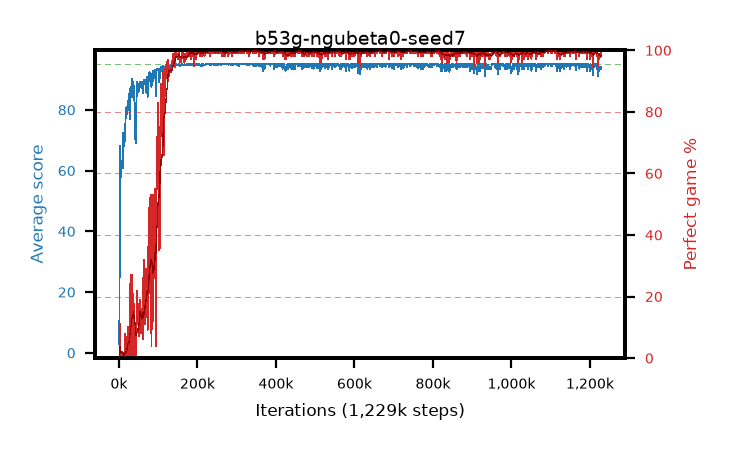
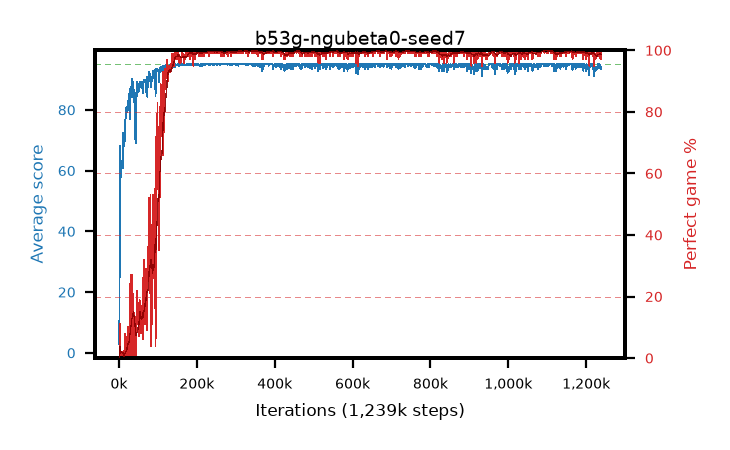
live pictures of 4 arm(s)

diff --git a/results/b53e-ngubeta0-seed5/b53e-ngubeta0-seed5.md b/results/b53e-ngubeta0-seed5/b53e-ngubeta0-seed5.md
@@ -1,6 +1,6 @@
 # b53e-ngubeta0-seed5
 
-step **1,219,000** · 1219 evals · trailing **94.21** · peak **94.95** @437,000 · sef **91.7** · best30 **99.8** @530,000
+step **1,229,000** · 1229 evals · trailing **94.23** · peak **94.95** @437,000 · sef **91.8** · best30 **99.8** @530,000
 
 ## Config
 
@@ -80,15 +80,15 @@ step **1,219,000** · 1219 evals · trailing **94.21** · peak **94.95** @437,00
 | 2000 | 29.39 | 17.35 | 3.0 | 54.0 | 24.459 | 0.0 | 0.4 |
 | 3000 | 50.81 | 28.5 | 16.0 | 85.0 | 45.457 | 0.0 | 0.4 |
 | ... | ... | ... | ... | ... | ... | ... | ... |
-| 1208000 | 95.0 | 94.44 | 95.0 | 95.0 | 193.781 | 100.0 | 0.4 |
-| 1209000 | 93.68 | 94.39 | 25.0 | 95.0 | 190.394 | 98.0 | 0.4 |
-| 1210000 | 94.17 | 94.37 | 12.0 | 95.0 | 191.91 | 99.0 | 0.4 |
-| 1211000 | 94.95 | 94.36 | 90.0 | 95.0 | 192.737 | 99.0 | 0.4 |
-| 1212000 | 94.27 | 94.4 | 22.0 | 95.0 | 192.023 | 99.0 | 0.4 |
-| 1213000 | 93.02 | 94.34 | 23.0 | 95.0 | 188.691 | 97.0 | 0.4 |
-| 1214000 | 93.54 | 94.31 | 22.0 | 95.0 | 190.251 | 98.0 | 0.4 |
-| 1215000 | 93.61 | 94.29 | 20.0 | 95.0 | 190.318 | 98.0 | 0.4 |
-| 1216000 | 95.0 | 94.29 | 95.0 | 95.0 | 193.789 | 100.0 | 0.4 |
-| 1217000 | 95.0 | 94.29 | 95.0 | 95.0 | 193.79 | 100.0 | 0.4 |
 | 1218000 | 94.25 | 94.27 | 20.0 | 95.0 | 191.99 | 99.0 | 0.4 |
 | 1219000 | 93.46 | 94.21 | 17.0 | 95.0 | 190.169 | 98.0 | 0.4 |
+| 1220000 | 94.31 | 94.24 | 26.0 | 95.0 | 192.059 | 99.0 | 0.4 |
+| 1221000 | 95.0 | 94.29 | 95.0 | 95.0 | 193.783 | 100.0 | 0.4 |
+| 1222000 | 93.48 | 94.24 | 18.0 | 95.0 | 190.187 | 98.0 | 0.4 |
+| 1223000 | 94.27 | 94.22 | 22.0 | 95.0 | 192.016 | 99.0 | 0.4 |
+| 1224000 | 94.89 | 94.25 | 84.0 | 95.0 | 192.629 | 99.0 | 0.4 |
+| 1225000 | 94.21 | 94.25 | 16.0 | 95.0 | 191.956 | 99.0 | 0.4 |
+| 1226000 | 94.49 | 94.28 | 44.0 | 95.0 | 192.24 | 99.0 | 0.4 |
+| 1227000 | 94.95 | 94.28 | 90.0 | 95.0 | 192.687 | 99.0 | 0.4 |
+| 1228000 | 95.0 | 94.28 | 95.0 | 95.0 | 193.789 | 100.0 | 0.4 |
+| 1229000 | 93.59 | 94.23 | 22.0 | 95.0 | 190.291 | 98.0 | 0.4 |

diff --git a/results/b53g-ngubeta0-seed7/b53g-ngubeta0-seed7.md b/results/b53g-ngubeta0-seed7/b53g-ngubeta0-seed7.md
@@ -1,6 +1,6 @@
 # b53g-ngubeta0-seed7
 
-step **1,229,000** · 1229 evals · trailing **94.08** · peak **94.97** @274,000 · sef **91.0** · best30 **99.8** @1,111,000
+step **1,239,000** · 1239 evals · trailing **94.17** · peak **94.97** @274,000 · sef **91.0** · best30 **99.8** @1,111,000
 
 ## Config
 
@@ -80,15 +80,15 @@ step **1,229,000** · 1229 evals · trailing **94.08** · peak **94.97** @274,00
 | 2000 | 37.8 | 20.34 | 6.0 | 63.0 | 32.628 | 0.0 | 0.4 |
 | 3000 | 67.99 | 36.22 | 23.0 | 95.0 | 74.006 | 11.0 | 0.4 |
 | ... | ... | ... | ... | ... | ... | ... | ... |
-| 1218000 | 93.42 | 94.37 | 13.0 | 95.0 | 190.127 | 98.0 | 0.4 |
-| 1219000 | 95.0 | 94.37 | 95.0 | 95.0 | 193.795 | 100.0 | 0.4 |
-| 1220000 | 91.15 | 94.26 | 11.0 | 95.0 | 184.755 | 95.0 | 0.4 |
-| 1221000 | 94.28 | 94.24 | 23.0 | 95.0 | 192.037 | 99.0 | 0.4 |
-| 1222000 | 93.47 | 94.19 | 15.0 | 95.0 | 190.185 | 98.0 | 0.4 |
-| 1223000 | 94.24 | 94.23 | 19.0 | 95.0 | 191.993 | 99.0 | 0.4 |
-| 1224000 | 92.69 | 94.15 | 14.0 | 95.0 | 188.368 | 97.0 | 0.4 |
-| 1225000 | 94.18 | 94.13 | 20.0 | 95.0 | 190.94 | 98.0 | 0.4 |
-| 1226000 | 94.29 | 94.1 | 24.0 | 95.0 | 192.047 | 99.0 | 0.4 |
-| 1227000 | 94.3 | 94.1 | 25.0 | 95.0 | 192.045 | 99.0 | 0.4 |
 | 1228000 | 93.57 | 94.08 | 18.0 | 95.0 | 190.288 | 98.0 | 0.4 |
 | 1229000 | 94.27 | 94.08 | 22.0 | 95.0 | 192.031 | 99.0 | 0.4 |
+| 1230000 | 95.0 | 94.16 | 95.0 | 95.0 | 193.8 | 100.0 | 0.4 |
+| 1231000 | 94.26 | 94.13 | 21.0 | 95.0 | 192.012 | 99.0 | 0.4 |
+| 1232000 | 93.61 | 94.11 | 25.0 | 95.0 | 190.333 | 98.0 | 0.4 |
+| 1233000 | 94.3 | 94.14 | 25.0 | 95.0 | 192.05 | 99.0 | 0.4 |
+| 1234000 | 95.0 | 94.16 | 95.0 | 95.0 | 193.784 | 100.0 | 0.4 |
+| 1235000 | 94.85 | 94.17 | 80.0 | 95.0 | 192.644 | 99.0 | 0.4 |
+| 1236000 | 94.22 | 94.15 | 22.0 | 95.0 | 190.982 | 98.0 | 0.4 |
+| 1237000 | 93.31 | 94.11 | 6.0 | 95.0 | 188.983 | 97.0 | 0.4 |
+| 1238000 | 94.07 | 94.19 | 5.0 | 95.0 | 190.824 | 98.0 | 0.4 |
+| 1239000 | 94.24 | 94.17 | 19.0 | 95.0 | 191.992 | 99.0 | 0.4 |
